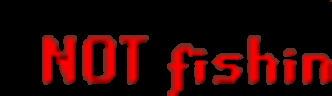
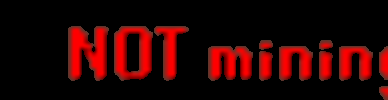
fishing and function .py updates. Some mining support

diff --git a/functions.py b/functions.py
@@ -26,8 +26,8 @@ newTime_break = False
 global timer
 global timer_break
 global ibreak
-runelite = 'RuneLite - Liuminescent'
-window = 1
+runelite = 'RuneLite - BabyEel'
+window = 2
 fish_type = 'infernal_eel'
 
 import pytesseract
@@ -197,13 +197,13 @@ def deposit_all_Bank():
 def invent_crop():
     global window
     if window == 2:
-         screen_Image(1585, 400, 1830, 730, 'inventshot.png')
+         screen_Image(1600, 395, 1830, 730, 'inventshot.png')
     elif window == 3:
         screen_Image(620 + 1920, 460, 820 + 1920, 750, 'inventshot.png')
     elif window == 4:
          screen_Image(1585 + 1920, 400, 1830 + 1920, 730, 'inventshot.png')
     else:
-         screen_Image(600, 460, 820, 785, 'inventshot.png')
+         screen_Image(620, 460, 820, 805, 'inventshot.png')
 
     # Window 1? 620, 480, 820, 750. Defines inventoryshot.png view
     # Window 2 fishing numbs? # 1575, 380, 1850, 750 fishing numbs.
@@ -1203,16 +1203,16 @@ def change_brown_black():
 #     return False
 #
 #
-# def invent_enabled():
-#     return Image_count('inventory_enabled.png', threshold=0.95)
-#
-#
-# def run_enabled():
-#     return Image_count('run_enabled.png', threshold=0.95)
-#
-#
-# def make_enabled(make='make_craft.png'):
-#     return Image_count(make, threshold=0.95)
+def invent_enabled():
+    return Image_count('inventory_enabled.png', threshold=0.95)
+
+
+def run_enabled():
+    return Image_count('run_enabled.png', threshold=0.95)
+
+
+def make_enabled(make='make_craft.png'):
+    return Image_count(make, threshold=0.95)
 
 
 def image_Rec_clicker(image, event, iheight=5, iwidth=2, threshold=0.8, clicker='left', ispace=25, playarea=True,
@@ -1256,7 +1256,7 @@ def image_Rec_clicker(image, event, iheight=5, iwidth=2, threshold=0.8, clicker=
             print('pt is None so iflag is False')
         else:
             if window == 2:
-                cropx = 1585
+                cropx = 1610
                 cropy = 405
             elif window == 3:
                 cropx = 1920
@@ -1328,7 +1328,7 @@ def image_eel_clicker(image, event, iheight=5, iwidth=2, threshold=0.8, clicker=
                 print('pt is None so iflag is False')
             else:
                 if window == 2:
-                    cropx = 1585
+                    cropx = 1610
                     cropy = 405
                 elif window == 3:
                     cropx = 1920
@@ -1409,7 +1409,11 @@ def Image_count(object, threshold=0.8, left=0, top=0, right=0, bottom=0):
     counter = 0
     screen_Image(left, top, right, bottom, name='screenshot.png')
     invent_crop()
-    img_rgb = cv2.imread('images/screenshot.png')
+    img_rgb = cv2.imread('images/inventshot.png')
+    while img_rgb is None:
+        img_rgb = cv2.imread('images/inventshot.png')
+        print(f'Sleeping until image is created')
+        time.sleep(3)
     img_gray = cv2.cvtColor(img_rgb, cv2.COLOR_BGR2GRAY)
     template = cv2.imread('images/' + object, 0)
     w, h = template.shape[::-1]
@@ -1481,8 +1485,16 @@ def invent_count(object, threshold=0.7):
     # active coords? 1560, 390, 1850, 790
     counter = 0
     img_rgb = cv2.imread('images/inventshot.png')
+    while img_rgb is None:
+        img_rgb = cv2.imread('images/inventshot.png')
+        print(f'Sleeping until image is created')
+        time.sleep(3)
     img_gray = cv2.cvtColor(img_rgb, cv2.COLOR_BGR2GRAY)
     template = cv2.imread('images/' + object, 0)
+    while template is None:
+        template = cv2.imread('images/' + object, 0)
+        print(f'Sleeping until image is created')
+        time.sleep(3)
     w, h = template.shape[::-1]
     res = cv2.matchTemplate(img_gray, template, cv2.TM_CCOEFF_NORMED)
     # print(f'res is {res}')

diff --git a/fishing.py b/fishing.py
@@ -203,6 +203,10 @@ def find_fish(showCoords=False, left=0, top=0, right=800, bottom=800, boundaries
     global window
     functions.screen_Image(left, top, right, bottom)
     image = cv2.imread('images/screenshot.png')
+    while image is None:
+        image = cv2.imread('images/screenshot.png')
+        print(f'Sleeping until image is created')
+        time.sleep(3)
     image = cv2.rectangle(image, pt1=(600, 0), pt2=(850, 200), color=(0, 0, 0), thickness=-1)
     image = cv2.rectangle(image, pt1=(0, 0), pt2=(150, 100), color=(0, 0, 0), thickness=-1)
 
@@ -211,6 +215,10 @@ def find_fish(showCoords=False, left=0, top=0, right=800, bottom=800, boundaries
         # create NumPy arrays from the boundaries
         lower = np.array(lower, dtype="uint8")
         upper = np.array(upper, dtype="uint8")
+        while image is None:
+            image = cv2.imread('images/screenshot.png')
+            print(f'Sleeping until image is created')
+            time.sleep(3)
         # find the colors within the specified boundaries and apply the mask
         mask = cv2.inRange(image, lower, upper)
         ret, thresh = cv2.threshold(mask, 40, 255, 0)

diff --git a/miner.py b/miner.py
@@ -4,6 +4,8 @@ import win32gui
 from threading import Thread
 import core
 import yaml
+
+import functions
 from functions import Image_count, invent_enabled
 from functions import image_Rec_clicker
 from functions import screen_Image
@@ -196,7 +198,7 @@ def count_gems2():
     return Image_count('gem_icon2.png')
 
 def inv_count(name):
-    return Image_count(name + '_ore.png')
+    return Image_count(name + '_ore.png', threshold=0.8, left=1000, top=0, right=1920, bottom=800)
 
 def timer_countdown():
     global Run_Duration_hours
@@ -226,6 +228,7 @@ def print_progress(time_left, spot, mined_text, powerlist, ore, actions):
 def powerminer_text(ore, num, Take_Human_Break=False, Run_Duration_hours=5):
     global inv_cap
     global spot, mined_text, time_left, powerlist, actions, powerlist, t_end, gem_count, ore_count, clue_count
+    runelite = functions.runelite
     powerlist = ['tin', 'copper', 'coal', 'iron', 'gold', 'clay', 'red', 'green', 'amber']
     print("Will break in: %.2f" % (ibreak / 60) + " minutes |", "Mine Ore Selected:", powerlist[ore])
     t1 = Thread(target=timer_countdown)
